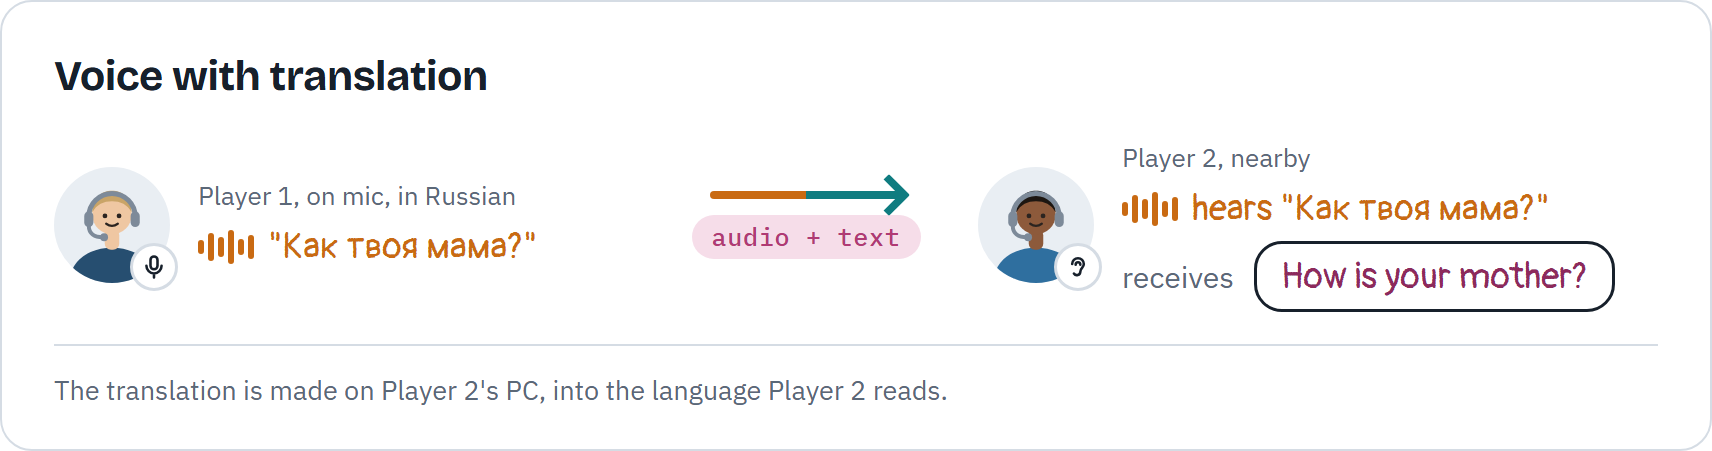
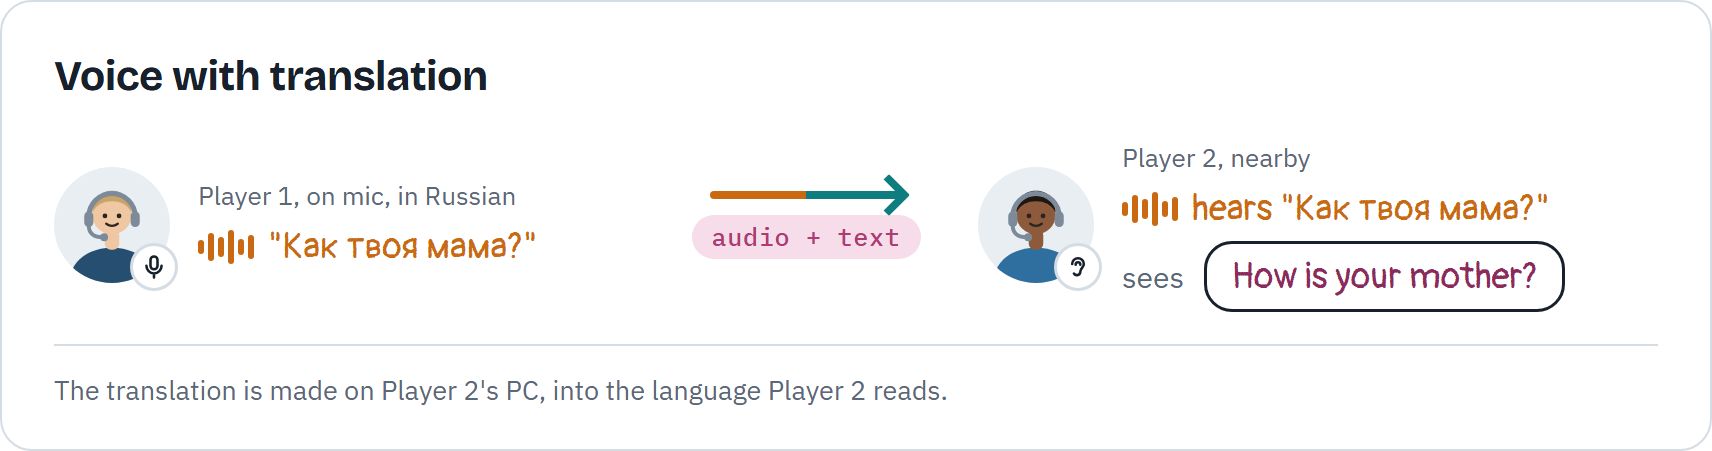
README pictures: "sees" before each text a player gets

Changed region(s): [[0.6501, 0.5277, 0.9597, 0.714], [0.8978, 0.6829, 0.9287, 0.714]]

diff --git a/docs/comms/make_comms.py b/docs/comms/make_comms.py
@@ -146,8 +146,8 @@ def bubble(t, tr=None):
 
 
 def receives(b):
-    """what a receiver gets as text: "receives" and the bubble"""
-    return '<span class="got"><span class="verb">receives</span>%s</span>' % b
+    """what a receiver gets as text: "sees" and the bubble"""
+    return '<span class="got"><span class="verb">sees</span>%s</span>' % b
 
 
 def channel(kind, label):

diff --git a/README.md b/README.md
@@ -60,7 +60,7 @@ game can show your words in text to other players. By extension, your game or mo
 
 <picture>
   <source media="(prefers-color-scheme: dark)" srcset="docs/comms/4-translation-dark.png">
-  <img src="docs/comms/4-translation-light.png" width="760" alt="Voice with translation: Player 1 says &quot;Как твоя мама?&quot; in Russian; Player 2 hears it and receives the text in English, &quot;How is your mother?&quot;">
+  <img src="docs/comms/4-translation-light.png" width="760" alt="Voice with translation: Player 1 says &quot;Как твоя мама?&quot; in Russian; Player 2 hears it and sees the text in English, &quot;How is your mother?&quot;">
 </picture>
 
 <picture>
